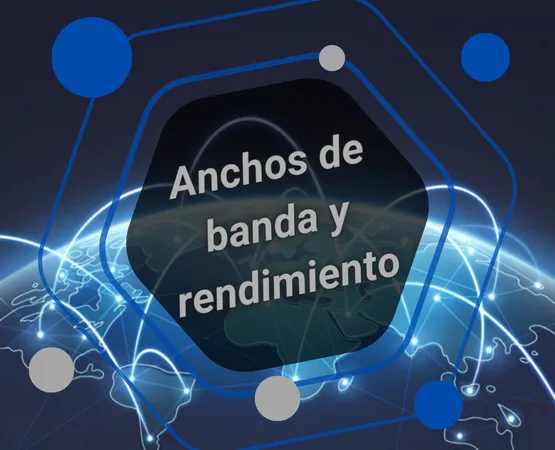
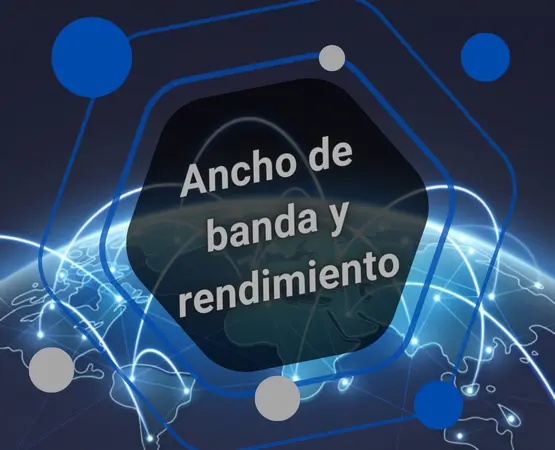
Refactor: Updated scripts.js and Updates posts

Changed region(s): [[0.3063, 0.28, 0.6739, 0.4667]]

diff --git a/assets/js/scripts.js b/assets/js/scripts.js
@@ -126,10 +126,7 @@ const fraseAleatoria = frases[indiceAleatorio];
 // Modificamos el texto del elemento en el HTML
 const textoElemento = document.getElementById("main__phrase");
 textoElemento.textContent = fraseAleatoria;
-<<<<<<< HEAD
 
 // Colores primarios
 
 
-=======
->>>>>>> 484ddd13aa9fb366b93f14ed5c304e0b290308d3

diff --git a/_posts/2024-08-19-Dispositivos-finales.md b/_posts/2024-08-19-Dispositivos-finales.md
@@ -1,0 +1,43 @@
+---
+layout: post
+title: "Dispositivos finales"
+date: 2024-08-19 06:07:00 -0600
+categories: [Redes]
+tags: [CCNA]
+description: Los "dispositivos finales" o "hosts" son aquellos con los que las personas tienen mayor contacto y utilizan con más frecuencia. Constituyen la interfaz entre los usuarios y la comunicación en la red.....
+img: /assets/img/net-009.webp
+---
+
+---
+
+## ¿Qué son los dispositivos finales?
+Los "dispositivos finales" o "hosts" son aquellos con los que las personas tienen mayor contacto y utilizan con más frecuencia. Constituyen la interfaz entre los usuarios y la comunicación en la red.
+
+Ejemplos comunes de dispositivos finales:
+- Computadoras: estaciones de trabajo, portátiles, servidores (de archivos, web, etc.)
+- Impresoras de red
+- Teléfonos y equipos de teleconferencias
+- Cámaras de seguridad
+- Dispositivos móviles: teléfonos celulares, tablets, lectores de tarjetas de crédito y débito, escáneres de códigos de barras
+
+Estos dispositivos son el origen o el destino de los mensajes que viajan a través de la red, como se muestra en las imágenes. Para enviar estos mensajes, es fundamental tener una referencia de quién los envía y quién los recibe. Para ello, los hosts se identifican mediante direcciones. Cuando un host inicia la comunicación, utiliza la dirección del host de destino para determinar a dónde debe ser enviado el mensaje.
+
+![alt text](/assets/img/net-009-1.webp){: width="600" }
+
+![alt text](/assets/img/net-009-2.webp){: width="600" }
+
+![alt text](/assets/img/net-009-3.webp){: width="600" }
+
+## Tipos de direcciones utilizadas por los hosts
+Para que la comunicación sea posible, cada dispositivo final se identifica mediante dos tipos de direcciones principales:
+
+* **Dirección física (MAC Address):** es una dirección única grabada en el hardware de la tarjeta de interfaz de red (NIC) de cada dispositivo. Se utiliza para identificar un dispositivo dentro de una red local (LAN). 
+* **Dirección lógica (IP Address):** es una dirección que se asigna lógicamente y que permite a los dispositivos comunicarse a través de diferentes redes, incluyendo internet. Es como un dirección postal que permite enviar una carta a cualquier parte del mundo. 
+
+## El papel de los dispositivos intermediarios en la red
+Aunque los dispositivos finales son los puntos de origen y destino dentro de una red, no pueden comunicarse directamente entre sí. Para lograr la comunicación, la red se apoya en dispositivos intermediarios. Estos dispositivos interconectan hosts individuales y pueden conectar múltiples redes para formar una interconexión más grande. De esta forma, controlan el flujo de los datos y los dirigen a su destino. Los dispositivos intermediarios más comunes incluyen:
+
+- **Switches:** Se utilizan en redes LAN principalmente para conectar dispositivos finales dentro de la misma red.
+- **Routers:** Conectan diferentes redes y dirigen el tráfico entre ellas. Utilizan las direcciones IP para generar rutas eficientes y enviar los mensajes a su destino.
+- **Puntos de acceso:** Permiten la conexión de los dispositivos de forma inalámbrica.
+- **Firewalls:** Son dispositivos de seguridad que monitorean y controlan el tráfico de red entrante y saliente, protegiendo a los hosts de accesos no autorizados.

diff --git a/_posts/2024-07-31-Infraestructura-de-red.md b/_posts/2024-07-31-Infraestructura-de-red.md
@@ -1,0 +1,30 @@
+---
+layout: post
+title: "Infraestructura de red"
+date: 2024-07-31 20:36:00 -0600
+categories: [Redes]
+tags: [CCNA]
+description: entro del contexto actual, el acceso a la comunicación instantánea, a la información y al entretenimiento digital se ha vuelto una acción fundamental para las personas.....
+img: /assets/img/net-008.webp
+---
+
+--- 
+
+Dentro del contexto actual, el acceso a la comunicación instantánea, a la información y al entretenimiento digital se ha vuelto una acción fundamental para las personas. Desde enviar mensajes en grupos de amigos o redes sociales hasta ver películas en streaming, todo esto es posible gracias a la infraestructura de red. Esta es la estructura que sopenta la red global, permitiéndonos enviar datos de un punto a otro. Para poder comprender cómo viajan estos datos, es importante entender los componentes físicos y lógicos que constituyen esta plataforma.
+
+Cuando enviamos un mensaje o paquete de datos desde el origen al destino, su trayecto puede consistir en solo un cable que conecta una computadora a otra, o incluso abarcar una red extensa que puede cubrir todo el planeta. Toda esta infraestructura es el pilar fundamental que gestiona y hace posible la red global.
+
+Para entender mejor los pasos que sigue un paquete de datos a través de la red, debemos desglosar en tres categorías principales los componentes de hardware que participan en ello. Estos son fundamentales para el funcionamiento y podemos verlos en la siguiente imagen:
+
+- Dispositivos finales
+- Dispositivos intermedios
+- Medios de red
+
+![alt text](/assets/img/net-008-1.webp){: width="500" }
+
+
+Los dispositivos finales, los dispositivos intermedios y los medios de red son elementos físicos o hardware que forman parte de la infraestructura de una red. El término hardware abarca tanto los componentes visibles, como una PC de escritorio, una laptop, un teléfono celular o una Tablet; así como los dispositivos intermedios que son cruciales para la conectividad y la gestión del flujo de los datos.
+
+Entre los dispositivos intermedios se encuentran los switches (que interconectan dispositivos dentro de una red local, como una computadora y una impresora), los routers (que dirigen el tráfico entre diferentes redes, incluyendo Internet, y son la "puerta de entrada" de la red a la web), los firewalls (que actúan como barreras de seguridad para proteger la red de accesos no autorizados) y los puntos de acceso inalámbrico (que permiten la conexión Wi-Fi).
+
+Finalmente, los medios de red son los enlaces físicos que transmiten los datos. Estos pueden ser el cableado de cobre, la fibra óptica o, de forma invisible, las ondas de radiofrecuencia o infrarrojas en el caso de las conexiones inalámbricas.

diff --git a/_posts/2024-07-29-Redes-entre-pares.md b/_posts/2024-07-29-Redes-entre-pares.md
@@ -1,0 +1,37 @@
+---
+layout: post
+title: "Redes entre pares"
+date: 2024-07-29 20:26:00 -0600
+categories: [Redes]
+tags: [CCNA]
+description: Aunque hemos hablado que el software de servidor y el de cliente normalmente se ejecutan en computadoras distintas, también es posible que una misma computadora los ejecute de manera simultánea.....
+img: /assets/img/net-007.webp
+---
+
+--- 
+
+Aunque hemos hablado que el software de servidor y el de cliente normalmente se ejecutan en computadoras distintas, también es posible que una misma computadora los ejecute de manera simultánea. Dentro de pequeñas empresas y hogares, las PC suelen funcionar como servidores y clientes en la red. A este tipo de red se le llama "red entre pares" (Peer-to-peer o P2P).
+
+Una red P2P simple puede constar de dos computadoras conectadas directamente mediante una conexión por cable o de forma inalámbrica. En este caso, ambas computadoras pueden utilizar esta red simple para intercambiar datos y servicios entre sí, lo que las obliga a interactuar como cliente y servidor según sea necesario.
+
+Si es necesario, se pueden añadir o conectar más PC para crear una P2P más grande. Para que esto sea posible, se requiere un dispositivo de red, como un switch, para interconectar las PC.
+
+Dentro del entorno de redes, no todo son ventajas ni desventajas; el uso de una u otra tecnología dependerá de los resultados esperados. En el caso de P2P, la principal desventaja es que el rendimiento de un host puede verse afectado si actúa como cliente y servidor a la vez. En empresas más grandes, donde el tráfico de red es más intenso, es necesario tener servidores dedicados para poder responder a la gran cantidad de solicitudes de servicio.
+
+**Ventajas de las redes entre pares:**
+
+- Fácil configuración
+- Menor complejidad
+- Menor costo, debido a que no se utilizan dispositivos y servidores dedicados
+- Ideales para tareas más sencillas
+
+**Desventajas de las redes entre pares:**
+
+- La administración de las redes no está centralizada
+- No son tan seguras
+- No son escalables
+- Se ralentiza el rendimiento al permitir que todos los dispositivos actúen como cliente y servidor simultáneamente
+
+Además de las redes entre pares, también existen aplicaciones entre pares. Estas permiten que un dispositivo actúe como cliente y servidor dentro de la misma comunicación. Dentro de este modelo, cada cliente es un servidor y cada servidor es un cliente. Para que funcionen de este modo, estas aplicaciones requieren que cada terminal contenga una interfaz de usuario y ejecute el servicio en segundo plano.
+
+**Un ejemplo sencillo para entender este tipo de aplicaciones es pensar en una aplicación de mensajería.**

diff --git a/_posts/2024-08-21-Servicios-de-red.md b/_posts/2024-08-21-Servicios-de-red.md
@@ -1,0 +1,25 @@
+---
+layout: post
+title: "Servicios de red"
+date: 2024-08-21 06:21:00 -0600
+categories: [Redes]
+tags: [CCNA]
+description: Dentro de las redes domesticas e Internet un proveedor de servicios de Internet es el eslabón principal.....
+img: /assets/img/net-010.webp
+---
+
+---
+
+## ¿Qué es un ISP?
+Dentro de las redes domesticas e Internet un proveedor de servicios de Internet es el eslabón principal. Un ISP puede ser el proveedor de cable local, un proveedor de telefonía fina, la red celular que nos permite realizar llamadas y enviar mensajes o un proveedor independiente que alquila ancho de banda en la infraestructura de red física de otra empresa.
+
+Muchos ISP también ofrecen servicios adicionales a sus suscriptores. Estos servicios pueden incluir cuentas de correo electrónico, almacenamiento en red y hosting de sitios web, además de servicios automatizados de copia de respaldo o seguridad. Los ISP son fundamentales para las comunicaciones a través de la red global de Internet. Cada ISP se conecta a otros ISP para formar una red de enlaces que conectan usuarios en todo el mundo. Los ISP están conectados de una manera jerárquica permitiendo que el tráfico de Internet tome el camino más corto desde el origen hasta el destino.  
+
+La red troncal de Internet es como una autopista de la información que proporciona enlaces de datos de alta velocidad para conectar las diversas redes de proveedores de servicios en las principales áreas metropolitanas de todo el mundo. El medio principal que conecta la red troncal de Internet es el cable de fibra óptica. Generalmente, este cable se instala bajo tierra para conectar ciudades dentro de un continente. Los cables de fibra óptica también se tienden bajo el mar para conectar continentes, países y ciudades.
+
+
+![alt text](/assets/img/net-010-1.webp){: width="600" }
+
+
+
+

diff --git a/_posts/2024-07-19-Las-bases-de-internet.md b/_posts/2024-07-19-Las-bases-de-internet.md
@@ -4,7 +4,7 @@ title: "Las bases de internet: todo es un bit"
 date: 2024-07-19 20:05:00 -0600
 categories: [Redes]
 tags: [CCNA]
-description: Cuando utilizamos aplicaciones (ya sea de mensajería, consultando las previsiones climáticas, viendo algún video de YouTube o incluso descargando algún documento de internet), estamos haciendo uso de bits. Pero, ¿qué es un bit?....
+description: Cuando utilizamos aplicaciones (ya sea de mensajería, consultando las previsiones climáticas, viendo algún video de YouTube o incluso descargando algún documento de internet), estamos haciendo uso de bits.....
 img: /assets/img/net-003.webp
 ---
 

diff --git a/_posts/2024-10-18-Creando-alias-para-nuestros-comandos.md b/_posts/2024-10-18-Creando-alias-para-nuestros-comandos.md
@@ -39,7 +39,3 @@ Otro comando que suele ser muy utilizado es el siguiente
 **git config --global alias.lg "log --graph --abbrev-commit --decorate --format=format:'%C(bold blue)%h%C(reset) - %C(bold green)(%ar)%C(reset) %C(white)%s%C(reset) %C(dim white)- %an%C(reset)%C(bold yellow)%d%C(reset)' --all"**
 
 Este comando hace referencia a un git log con diferentes modificadores. Como podemos ver, este comando nos ayudará a crear un alias que, de otro modo, tendríamos que escribir con toda su sintaxis, lo que nos quitaría mucho tiempo durante el desarrollo.  
-<<<<<<< HEAD
-=======
-
->>>>>>> 484ddd13aa9fb366b93f14ed5c304e0b290308d3

diff --git a/_posts/2024-07-26-Clientes-y-servidores.md b/_posts/2024-07-26-Clientes-y-servidores.md
@@ -4,7 +4,7 @@ title: "Clientes y servidores"
 date: 2024-07-26 20:20:00 -0600
 categories: [Redes]
 tags: [CCNA]
-description: A la hora de instalar una red, existen varias tendencias actuales, y estas son algunas de las más importantes.....
+description: En el contexto actual, todos los dispositivos que están conectados a la red y que participan en las comunicaciones de datos en la red son clasificados como hosts.....
 img: /assets/img/net-006.webp
 ---
 

diff --git a/_posts/2024-07-24-Ancho-de-banda-y-rendimiento.md b/_posts/2024-07-24-Ancho-de-banda-y-rendimiento.md
@@ -1,6 +1,6 @@
 ---
 layout: post
-title: "Anchos de banda y rendimiento"
+title: "Ancho de banda y rendimiento"
 date: 2024-07-24 20:15:00 -0600
 categories: [Redes]
 tags: [CCNA]
